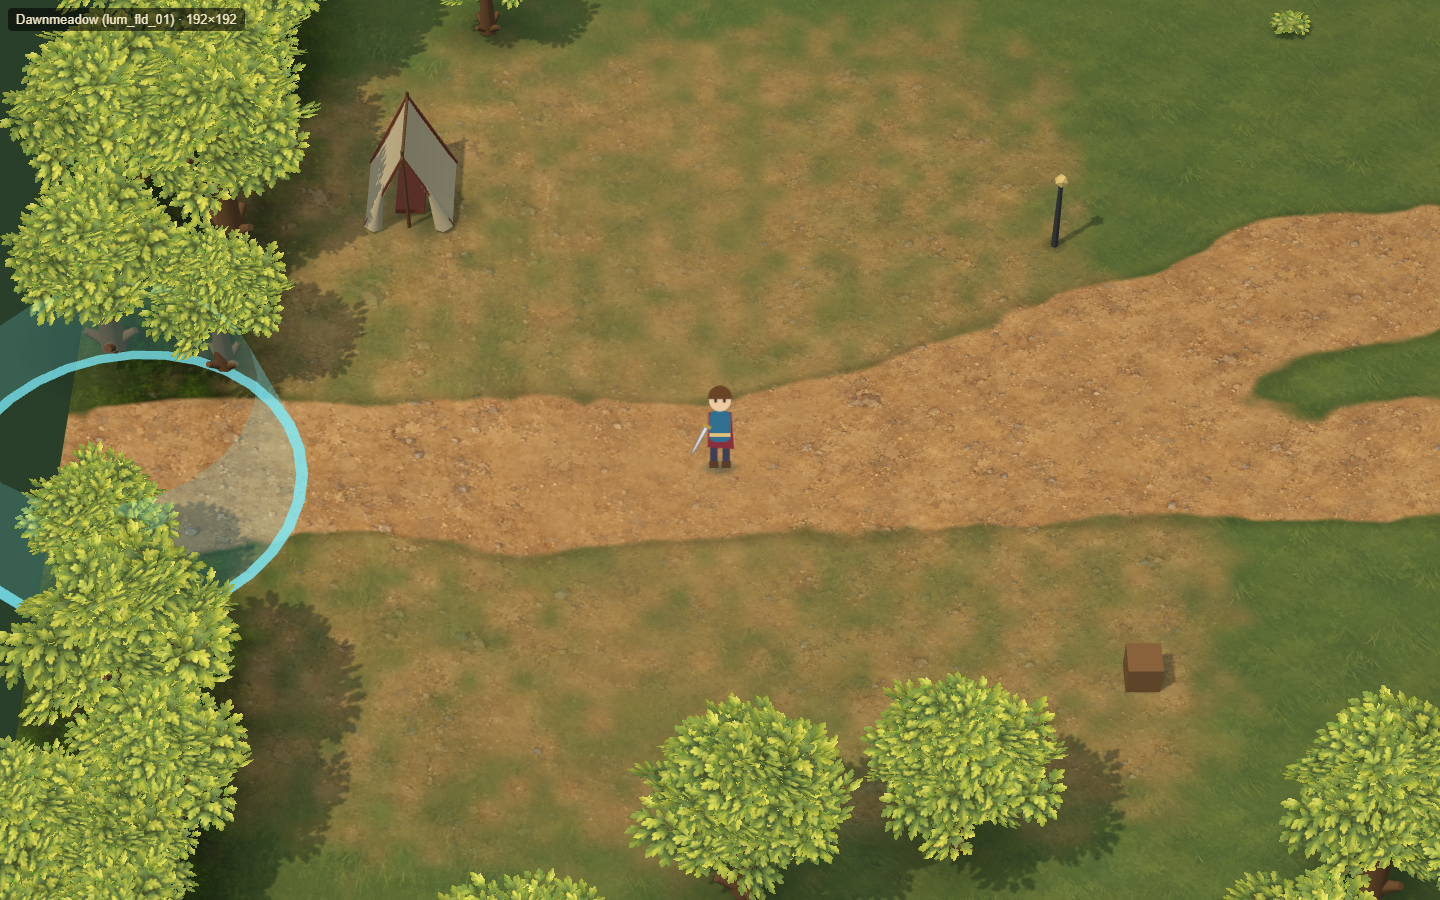
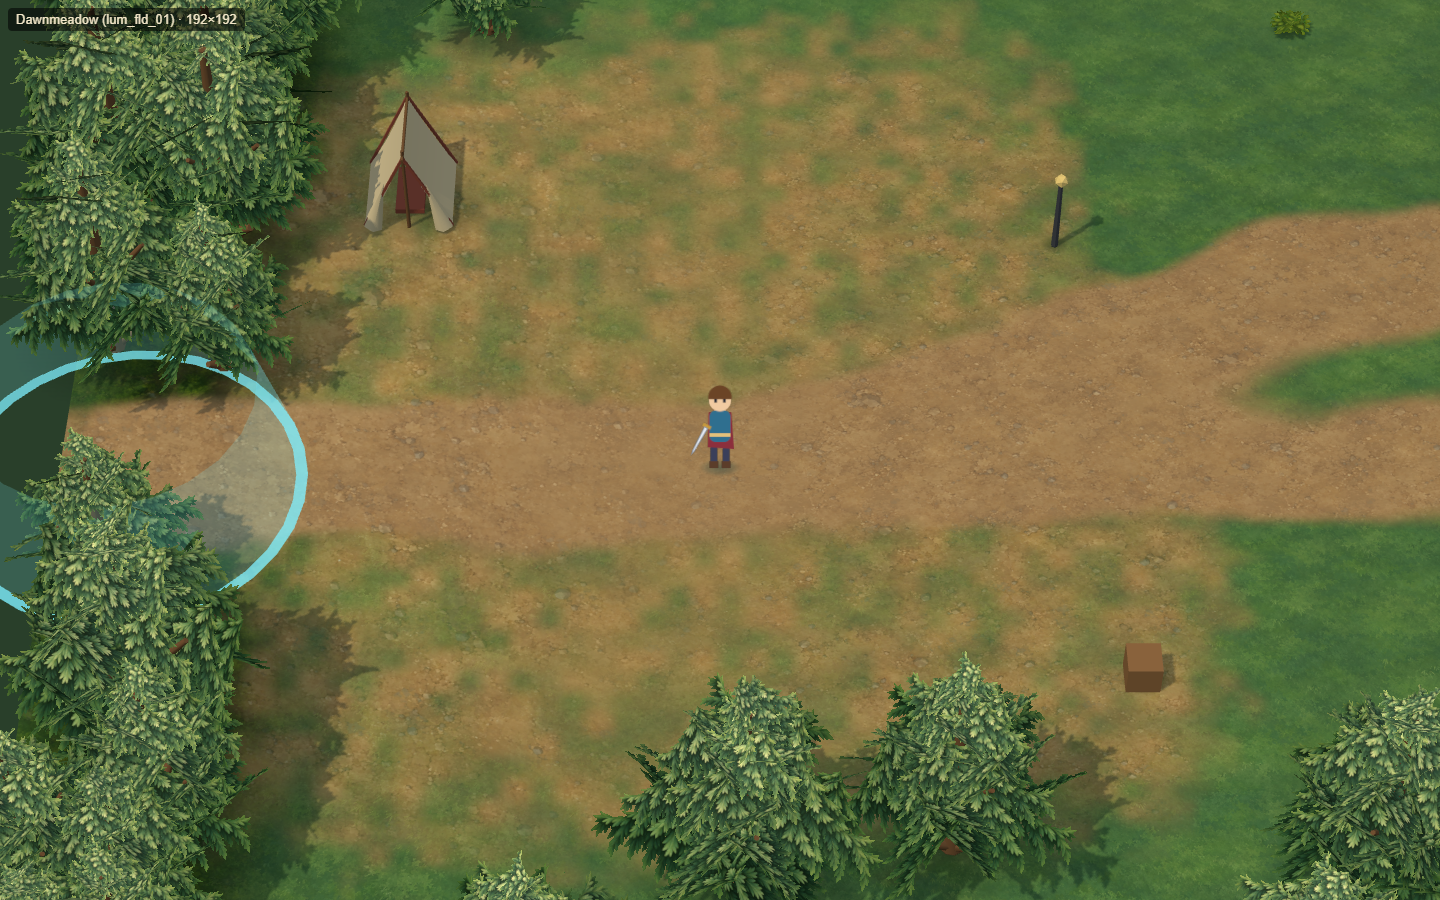
Replace flat fir sprays with curved painted boughs and varied crowns

diff --git a/src/render/dawnTrees.ts b/src/render/dawnTrees.ts
@@ -9,10 +9,10 @@ export function buildDawnTrees(layout: MapLayout, group: THREE.Group,
   const trees = layout.props.filter(p => p.kind === "tree");
   if (!trees.length) return;
   const bark = track(new THREE.MeshLambertMaterial({ color: 0x765538 }));
-  const image = envArt.textures.get("dawn_fir_v3");
+  const image = envArt.textures.get("dawn_bough_v4");
   const texture = image ? track(new THREE.Texture(image)) : null;
   if (texture) { texture.colorSpace = THREE.SRGBColorSpace; texture.anisotropy = 8; texture.needsUpdate = true; }
-  const leaves = track(new THREE.MeshLambertMaterial({ color: 0xffffff, map: texture, alphaTest: 0.45, side: THREE.DoubleSide }));
+  const leaves = track(new THREE.MeshLambertMaterial({ color: 0xffffff, map: texture, alphaTest: 0.35, side: THREE.DoubleSide }));
   leaves.onBeforeCompile = shader => {
     shader.uniforms.dawnTime = time;
     shader.vertexShader = 'uniform float dawnTime; varying vec3 vLeaf;\n' + shader.vertexShader.replace('#include <begin_vertex>', `
@@ -24,10 +24,10 @@ export function buildDawnTrees(layout: MapLayout, group: THREE.Group,
     // Lift the diffuse leaf painting under the shared scene lighting.
     shader.fragmentShader = shader.fragmentShader.replace('#include <map_fragment>', `
       #include <map_fragment>
-      diffuseColor.rgb = diffuseColor.rgb * 1.8 + vec3(0.025, 0.04, 0.015);
+      diffuseColor.rgb *= 1.15;
     `);
   };
-  leaves.customProgramCacheKey = () => 'dawn-fir-spray-v3';
+  leaves.customProgramCacheKey = () => 'dawn-curved-bough-v4';
   const pieces = [new THREE.CylinderGeometry(0.07, 0.23, 4.6, 9).translate(0, 2.3, 0)];
   for (let i = 0; i < 4; i++) {
     const angle = i * Math.PI / 2 + 0.3;
@@ -36,20 +36,28 @@ export function buildDawnTrees(layout: MapLayout, group: THREE.Group,
   }
   const trunkGeo = track(mergeGeometries(pieces));
   pieces.forEach(piece => piece.dispose());
-  const crownGeo = track(new THREE.PlaneGeometry(2.6, 1.8).rotateX(-Math.PI / 4));
+  // Each painted bough follows a bowed surface, attached at the top of the
+  // texture and drooping outwards. Flat rotated cards exposed their edges.
+  const crownGeo = track(new THREE.PlaneGeometry(1.9, 2.2, 10, 12));
+  const positions = crownGeo.attributes.position;
+  for (let k = 0; k < positions.count; k++) {
+    const x = positions.getX(k), t = (1.1 - positions.getY(k)) / 2.2;
+    positions.setXYZ(k, x, 0.24 * Math.sin(t * Math.PI) - 0.78 * t - 0.28 * (x / 0.95) ** 2, t * 2.2);
+  }
+  crownGeo.computeVertexNormals();
+  crownGeo.computeBoundingSphere();
   const trunks = new THREE.InstancedMesh(trunkGeo, bark, trees.length);
-  // Overlapping flattened sprays break the silhouette into leafy scallops.
-  // The previous five huge balls read as a bunch of boulders on a pole.
+  // Staggered overlapping boughs form a continuous crown. Tree-local variation
+  // breaks up repeated rings without changing trunk anchors or collision.
   const lobes: number[][] = [];
-  for (let tier = 0; tier < 5; tier++) {
-    const count = [9, 8, 7, 6, 4][tier], radius = [0.95, 0.8, 0.6, 0.4, 0.18][tier];
+  for (let tier = 0; tier < 7; tier++) {
+    const count = [8, 8, 7, 6, 5, 4, 3][tier], radius = 0.06;
     for (let j = 0; j < count; j++) {
       const a = j / count * Math.PI * 2 + tier * 0.7;
-      lobes.push([Math.cos(a) * radius, 1.8 + tier * 0.68 + Math.sin(j * 2.1) * 0.12,
-        Math.sin(a) * radius, [1.1, 0.95, 0.78, 0.6, 0.45][tier] + Math.sin(j * 4.3 + tier) * 0.06]);
+      lobes.push([Math.sin(a) * radius, 1.9 + tier * 0.53 + Math.sin(j * 2.1) * 0.13,
+        Math.cos(a) * radius, [1.05, 1.02, 0.88, 0.74, 0.58, 0.4, 0.23][tier], a]);
     }
   }
-  lobes.push([0, 4.95, 0, 0.36]);
   const crowns = new THREE.InstancedMesh(crownGeo, leaves, trees.length * lobes.length);
   trunks.castShadow = true;
   crowns.castShadow = true;
@@ -57,14 +65,18 @@ export function buildDawnTrees(layout: MapLayout, group: THREE.Group,
   const d = new THREE.Object3D();
   trees.forEach((p, i) => {
     const s = p.scale ?? 1, angle = p.rot ?? 0;
+    const seed = p.x * 13.7 + p.y * 5.3;
+    const breadth = 0.94 + Math.sin(seed) * 0.09;
+    const height = 1 + Math.cos(seed * 1.7) * 0.07;
     d.position.set(p.x + 0.5, 0, p.y + 0.5); d.rotation.set(0, angle, 0); d.scale.setScalar(s); d.updateMatrix();
     trunks.setMatrixAt(i, d.matrix);
-    lobes.forEach(([x, y, z, r], j) => {
-      d.position.set(p.x + 0.5 + (x * Math.cos(angle) - z * Math.sin(angle)) * s, y * s,
+    lobes.forEach(([x, y, z, r, a], j) => {
+      d.position.set(p.x + 0.5 + (x * Math.cos(angle) - z * Math.sin(angle)) * s, (y * height + Math.sin(seed + j * 2.7) * 0.09) * s,
         p.y + 0.5 + (x * Math.sin(angle) + z * Math.cos(angle)) * s);
-      d.rotation.set(Math.sin(j * 1.7) * 0.16, angle + j * 2.4, Math.cos(j * 2.3) * 0.12);
-      d.scale.setScalar(r * s); d.updateMatrix(); crowns.setMatrixAt(i * lobes.length + j, d.matrix);
-      crowns.setColorAt(i * lobes.length + j, new THREE.Color(0x70917b).lerp(new THREE.Color(0xffffff), Math.min(1, (y - 1.6) / 3.4)));
+      d.rotation.set(Math.sin(seed + j * 1.7) * 0.08, angle + a + Math.sin(seed + j) * 0.1, Math.cos(j * 2.3 + seed) * 0.07);
+      const size = r * s * (1 + Math.sin(seed + j * 3.1) * 0.07);
+      d.scale.set(size * breadth, size * height, size * breadth); d.updateMatrix(); crowns.setMatrixAt(i * lobes.length + j, d.matrix);
+      crowns.setColorAt(i * lobes.length + j, new THREE.Color(0x6e8c78).lerp(new THREE.Color(0xf1f2d5), Math.min(1, (y - 1.3) / 3.6)));
     });
   });
   group.add(trunks, crowns);
